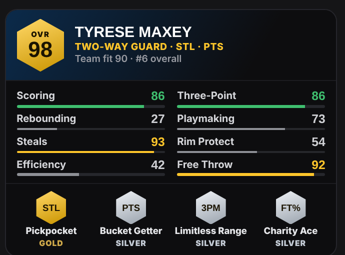
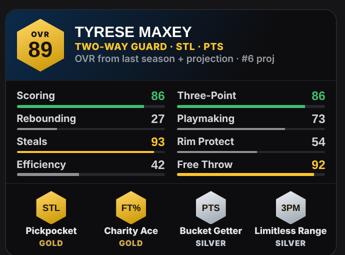
OVR: value-based and dynamic (last season + projection preseason, current season takes over by 25 games)
Claude-Session: https://claude.ai/code/session_01Bze7554zYTgci3mfzKEDgc

diff --git a/classic.html b/classic.html
@@ -2130,8 +2130,21 @@ function windows(j){const ok=j&&j.ok;const lg=ok?(j.logs||[]):[];const reg=lg.fi
  const R={s25:{lab:ls?ls.season.replace(/^20(\d\d)-(\d\d)$/,"$1-$2"):"25-26",full:ls?("NBA "+ls.season):"NBA 25-26",line:ls?{...ls,MIN:ls.min,n:ls.gp}:null},l4:{lab:"L1M",full:"Last month",line:avg(cut(30))},l2:{lab:"L2W",full:"Last 2 weeks",line:avg(cut(14))},l1:{lab:"L1W",full:"Last week",line:avg(cut(7))}};
  Object.values(R).forEach(x=>{if(x.line){x.z=zs(x.line);x.v=val(x.z);x.rank=likeRank(x.v)}});R.thru=last;R.reg=reg;return R}
 function info(r,j){const b=find(r.name);if(!b)return null;const z=zs(sLine(b));const rk=b.rank||likeRank(val(z));
- const ovr=rk<=150?Math.round(99-(rk-1)*24/149):Math.max(60,Math.round(75-(rk-150)*.1));
- return{b,z,rk,ovr,fit:fitOf(z),pr:posRank(b,r.pos),W:windows(j)}}
+ const W=windows(j),o=ovrOf(val(z),W);
+ return{b,z,rk,ovr:o.ovr,ob:o.basis,fit:fitOf(z),pr:posRank(b,r.pos),W}}
+// OVR = fantasy value on a 60-99 scale. Preseason: 60% last season actual + 40% projection.
+// In season: current-season actual takes over as games pile up (full weight at 25 games).
+const V1=poolVals[0],V150=poolVals[Math.min(149,poolVals.length-1)];
+const PV=k=>poolVals[Math.min(k,poolVals.length)-1];
+const ANC=[[PV(1),99],[PV(10),93],[PV(25),89],[PV(55),84],[PV(100),79],[PV(150),75],[PV(150)-1.5*(PV(100)-PV(150)),60]];
+const toOvr=v=>{if(v>=ANC[0][0])return 99;for(let i=1;i<ANC.length;i++){const[a,oa]=ANC[i-1],[b,ob]=ANC[i];if(v>=b)return Math.round(ob+(oa-ob)*(v-b)/((a-b)||1))}return 60};
+function ovrOf(vProj,W){const cur=W.reg&&/2026-27|26-27/.test(W.reg.label)&&W.reg.games.length?avg(W.reg.games):null;
+ const vLast=W.s25&&W.s25.v!=null?W.s25.v:null;let v,basis;
+ if(cur){const vc=val(zs(cur)),w=Math.min(1,cur.n/25),pre=vLast!=null?.6*vLast+.4*vProj:vProj;v=w*vc+(1-w)*pre;basis=w>=1?`${cur.n} games this season`:`${cur.n} games + preseason`}
+ else if(vLast!=null){v=.6*vLast+.4*vProj;basis="last season + projection"}
+ else{v=vProj;basis="projection"}
+ return{ovr:toOvr(v),basis}}
+window.__ovrScale=()=>[1,10,25,55,100,150].map(k=>[k,toOvr(poolVals[k-1])]);
 const mv=(a,b)=>a==null||b==null?"":b<a?`<em class="up">▲${a-b}</em>`:b>a?`<em class="dn">▼${b-a}</em>`:`<em>–</em>`;
 function strip(r,j){const I=info(r,j);if(!I)return null;const W=I.W;
  const cell=k=>{const x=W[k];return `<div class="${x.rank==null?"":x.rank<I.rk?"g":x.rank>I.rk?"b":""}"><small>${x.lab}</small><b>${x.rank!=null?"#"+x.rank:"–"}</b>${mv(I.rk,x.rank)}</div>`};
@@ -2147,7 +2160,7 @@ let RP=null;function rpool(){if(RP)return RP;const d=D(),L=[];Object.values(d.ro
 const rateC=(c,b)=>{const P=rpool(),x=zOf(c,b.s[CI[c]]),below=P.filter(p=>zOf(c,p.s[CI[c]])<x).length;return Math.max(25,Math.min(99,Math.round(100*below/Math.max(1,P.length))))};
 function ovrCard(r,I){const z=I.z,pr={};CATS.forEach(c=>pr[c]=rateC(c,I.b));const ptier=v=>v>=97?["HOF","h"]:v>=90?["GOLD","g"]:v>=80?["SILVER","s"]:["BRONZE","b"];const top=CATS.filter(c=>!punts().includes(c)&&pr[c]>=70).sort((a,b)=>pr[b]-pr[a]).slice(0,4);
  const bar=([n,c])=>{const v=rateC(c,I.b);return `<div class="at"><span>${n}</span><b class="${v>=90?"gd":v>=78?"gr":""}">${v}</b><i><u class="${v>=90?"gd":v>=78?"gr":""}" style="width:${v}%"></u></i></div>`};
- return `<section class="fpov"><div class="tp"><div class="hx"><small>OVR</small><b>${I.ovr}</b></div><div class="m"><b>${esc(r.name)}</b><span class="ro">${esc(role(r,z)).toUpperCase()}</span><span class="su">Team fit ${I.fit!=null?I.fit:"–"} · #${I.rk} overall</span></div></div>
+ return `<section class="fpov"><div class="tp"><div class="hx"><small>OVR</small><b>${I.ovr}</b></div><div class="m"><b>${esc(r.name)}</b><span class="ro">${esc(role(r,z)).toUpperCase()}</span><span class="su">OVR from ${I.ob} · #${I.rk} proj</span></div></div>
  <div class="ats">${AT.map(bar).join("")}</div>${top.length?`<div class="bdg">${top.map(c=>{const t=ptier(pr[c]);return `<div class="bg ${t[1]}"><div class="hb">${c}</div><b>${BN[c]}</b><small>${t[0]}</small></div>`}).join("")}</div>`:""}</section>`}
 const ordn=n=>n+(["th","st","nd","rd"][(n%100-20)%10]||["th","st","nd","rd"][n%100]||"th");
 const NM={PTS:"points","3PM":"threes",REB:"rebounds",AST:"assists",STL:"steals",BLK:"blocks","FG%":"FG%","FT%":"FT%",TO:"turnovers"};

diff --git a/index.html b/index.html
@@ -2182,8 +2182,21 @@ function windows(j){const ok=j&&j.ok;const lg=ok?(j.logs||[]):[];const reg=lg.fi
  const R={s25:{lab:ls?ls.season.replace(/^20(\d\d)-(\d\d)$/,"$1-$2"):"25-26",full:ls?("NBA "+ls.season):"NBA 25-26",line:ls?{...ls,MIN:ls.min,n:ls.gp}:null},l4:{lab:"L1M",full:"Last month",line:avg(cut(30))},l2:{lab:"L2W",full:"Last 2 weeks",line:avg(cut(14))},l1:{lab:"L1W",full:"Last week",line:avg(cut(7))}};
  Object.values(R).forEach(x=>{if(x.line){x.z=zs(x.line);x.v=val(x.z);x.rank=likeRank(x.v)}});R.thru=last;R.reg=reg;return R}
 function info(r,j){const b=find(r.name);if(!b)return null;const z=zs(sLine(b));const rk=b.rank||likeRank(val(z));
- const ovr=rk<=150?Math.round(99-(rk-1)*24/149):Math.max(60,Math.round(75-(rk-150)*.1));
- return{b,z,rk,ovr,fit:fitOf(z),pr:posRank(b,r.pos),W:windows(j)}}
+ const W=windows(j),o=ovrOf(val(z),W);
+ return{b,z,rk,ovr:o.ovr,ob:o.basis,fit:fitOf(z),pr:posRank(b,r.pos),W}}
+// OVR = fantasy value on a 60-99 scale. Preseason: 60% last season actual + 40% projection.
+// In season: current-season actual takes over as games pile up (full weight at 25 games).
+const V1=poolVals[0],V150=poolVals[Math.min(149,poolVals.length-1)];
+const PV=k=>poolVals[Math.min(k,poolVals.length)-1];
+const ANC=[[PV(1),99],[PV(10),93],[PV(25),89],[PV(55),84],[PV(100),79],[PV(150),75],[PV(150)-1.5*(PV(100)-PV(150)),60]];
+const toOvr=v=>{if(v>=ANC[0][0])return 99;for(let i=1;i<ANC.length;i++){const[a,oa]=ANC[i-1],[b,ob]=ANC[i];if(v>=b)return Math.round(ob+(oa-ob)*(v-b)/((a-b)||1))}return 60};
+function ovrOf(vProj,W){const cur=W.reg&&/2026-27|26-27/.test(W.reg.label)&&W.reg.games.length?avg(W.reg.games):null;
+ const vLast=W.s25&&W.s25.v!=null?W.s25.v:null;let v,basis;
+ if(cur){const vc=val(zs(cur)),w=Math.min(1,cur.n/25),pre=vLast!=null?.6*vLast+.4*vProj:vProj;v=w*vc+(1-w)*pre;basis=w>=1?`${cur.n} games this season`:`${cur.n} games + preseason`}
+ else if(vLast!=null){v=.6*vLast+.4*vProj;basis="last season + projection"}
+ else{v=vProj;basis="projection"}
+ return{ovr:toOvr(v),basis}}
+window.__ovrScale=()=>[1,10,25,55,100,150].map(k=>[k,toOvr(poolVals[k-1])]);
 const mv=(a,b)=>a==null||b==null?"":b<a?`<em class="up">▲${a-b}</em>`:b>a?`<em class="dn">▼${b-a}</em>`:`<em>–</em>`;
 function strip(r,j){const I=info(r,j);if(!I)return null;const W=I.W;
  const cell=k=>{const x=W[k];return `<div class="${x.rank==null?"":x.rank<I.rk?"g":x.rank>I.rk?"b":""}"><small>${x.lab}</small><b>${x.rank!=null?"#"+x.rank:"–"}</b>${mv(I.rk,x.rank)}</div>`};
@@ -2199,7 +2212,7 @@ let RP=null;function rpool(){if(RP)return RP;const d=D(),L=[];Object.values(d.ro
 const rateC=(c,b)=>{const P=rpool(),x=zOf(c,b.s[CI[c]]),below=P.filter(p=>zOf(c,p.s[CI[c]])<x).length;return Math.max(25,Math.min(99,Math.round(100*below/Math.max(1,P.length))))};
 function ovrCard(r,I){const z=I.z,pr={};CATS.forEach(c=>pr[c]=rateC(c,I.b));const ptier=v=>v>=97?["HOF","h"]:v>=90?["GOLD","g"]:v>=80?["SILVER","s"]:["BRONZE","b"];const top=CATS.filter(c=>!punts().includes(c)&&pr[c]>=70).sort((a,b)=>pr[b]-pr[a]).slice(0,4);
  const bar=([n,c])=>{const v=rateC(c,I.b);return `<div class="at"><span>${n}</span><b class="${v>=90?"gd":v>=78?"gr":""}">${v}</b><i><u class="${v>=90?"gd":v>=78?"gr":""}" style="width:${v}%"></u></i></div>`};
- return `<section class="fpov"><div class="tp"><div class="hx"><small>OVR</small><b>${I.ovr}</b></div><div class="m"><b>${esc(r.name)}</b><span class="ro">${esc(role(r,z)).toUpperCase()}</span><span class="su">Team fit ${I.fit!=null?I.fit:"–"} · #${I.rk} overall</span></div></div>
+ return `<section class="fpov"><div class="tp"><div class="hx"><small>OVR</small><b>${I.ovr}</b></div><div class="m"><b>${esc(r.name)}</b><span class="ro">${esc(role(r,z)).toUpperCase()}</span><span class="su">OVR from ${I.ob} · #${I.rk} proj</span></div></div>
  <div class="ats">${AT.map(bar).join("")}</div>${top.length?`<div class="bdg">${top.map(c=>{const t=ptier(pr[c]);return `<div class="bg ${t[1]}"><div class="hb">${c}</div><b>${BN[c]}</b><small>${t[0]}</small></div>`}).join("")}</div>`:""}</section>`}
 const ordn=n=>n+(["th","st","nd","rd"][(n%100-20)%10]||["th","st","nd","rd"][n%100]||"th");
 const NM={PTS:"points","3PM":"threes",REB:"rebounds",AST:"assists",STL:"steals",BLK:"blocks","FG%":"FG%","FT%":"FT%",TO:"turnovers"};
